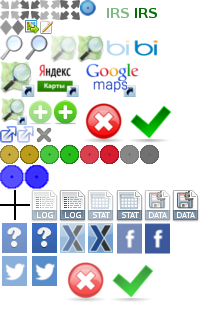
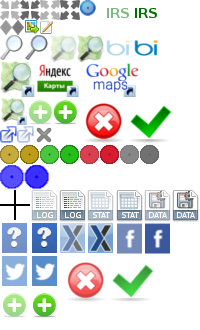
#6 functionality was implemented

diff --git a/ngcrowd/static/js/uik/uik.editor.js b/ngcrowd/static/js/uik/uik.editor.js
@@ -96,6 +96,10 @@
             $('#regeocode').off('click').on('click', function () {
                 context.regeocode();
             });
+
+            $('#newPointCreator').off('click').on('click', function () {
+                context.createNewPoint();
+            });
         },
 
         toggleEditor: function () {
@@ -288,8 +292,10 @@
                 $('#field-' + prop.id).val(prop.val);
             });
 
-            $('#lat').val(uik.uik.geom.lat);
-            $('#lng').val(uik.uik.geom.lng);
+            if (uik.uik.geom) {
+                $('#lat').val(uik.uik.geom.lat);
+                $('#lng').val(uik.uik.geom.lng);
+            }
 
             if (uik.uik.approved) {
                 $('#is_applied').val(1);
@@ -348,6 +354,11 @@
 
         finishAjaxEdition: function () {
             var context = this;
+            if (!UIK.viewmodel.uikSelected.uik.id) {
+                context.finishEditing();
+                return false;
+            }
+
             $.ajax({
                 type: 'GET',
                 url: document['url_root'] + 'object/unblock/' + UIK.viewmodel.uikSelected.uik.id
@@ -371,6 +382,25 @@
             UIK.view.$document.trigger('/uik/versions/clearUI');
             UIK.view.$document.trigger('/uik/map/updateAllLayers');
 
+        },
+
+        createNewPoint: function () {
+            var center = UIK.viewmodel.map.getCenter();
+
+            UIK.viewmodel.uikSelected = ({
+                uik: {
+                    approved: false,
+                    blocked: false,
+                    geom: {
+                        lat: center.lat,
+                        lng: center.lng
+                    }
+                },
+                props: [],
+                versions: []
+            });
+
+            this.startEdit();
         }
     });
 })(jQuery, UIK);

diff --git a/ngcrowd/static/css/main.css b/ngcrowd/static/css/main.css
@@ -216,10 +216,20 @@ body div.panel {
 
 body div.stat-panel {
     left: 309px;
-    top: 172px;
+    top: 221px;
 }
 
 body.searcher-collapsed div.stat-panel {
+    top: 259px;
+    left: 3px;
+}
+
+body div.edit-panel {
+    left: 309px;
+    top: 172px;
+}
+
+body.searcher-collapsed div.edit-panel {
     top: 210px;
     left: 3px;
 }
@@ -266,11 +276,11 @@ div.panel div.export:hover a {
 
 body div.help-panel {
     left: 309px;
-    top: 302px;
+    top: 350px;
 }
 
 body.searcher-collapsed div.help-panel {
-    top: 338px;
+    top: 388px;
     left: 3px;
 }
 
@@ -305,6 +315,15 @@ div.panel div.twitter a {
 div.panel div.twitter:hover a {
     background: url('../img/sm-icons.png') -31px -256px;
 }
+
+div.panel div.point a {
+    background: url('../img/sm-icons.png') 0 -289px;
+}
+
+div.panel div.point:hover a {
+    background: url('../img/sm-icons.png') -30px -289px;
+}
+
 
 #searchContainer .title,
 #editorContainer .title {

diff --git a/ngcrowd/uik.py b/ngcrowd/uik.py
@@ -180,34 +180,44 @@ def update_entity(context, request):
         session = DBSession()
         from helpers import str_to_boolean
 
-        entity = session.query(Entity).filter(Entity.id == entity_from_client['id'])\
-            .options(joinedload(Entity.values))
+        if ('id' in entity_from_client) and entity_from_client['id']:
+            entity = session.query(Entity).filter(Entity.id == entity_from_client['id'])\
+                .options(joinedload(Entity.values))
+            entity.update({
+                  Entity.approved: str_to_boolean(entity_from_client['is_applied']),
+                  Entity.blocked: False,
+                  Entity.user_block_id: None
+            }, synchronize_session=False)
+            entity = entity.one()
+        else:
+            entity = Entity(
+                approved=str_to_boolean(entity_from_client['is_applied']),
+                blocked=False,
+                user_block_id=None
+            )
+            session.add(entity)
+            session.flush()
+            session.refresh(entity)
 
-        current_values = entity.one().values
-
-        entity.update({
-              Entity.approved: str_to_boolean(entity_from_client['is_applied']),
-              Entity.blocked: False,
-              Entity.user_block_id: None
-        }, synchronize_session=False)
 
         sql = 'UPDATE entities SET point=ST_GeomFromText(:wkt, 4326) WHERE id = :entity_id'
         session.execute(sql, {
             'wkt': 'POINT(%s %s)' % (entity_from_client['geom']['lng'], entity_from_client['geom']['lat']),
-            'entity_id': entity_from_client['id']
+            'entity_id': entity.id
         })
 
         entity_properties = session.query(EntityProperty)
+        current_values = entity.values
 
         for entity_property in entity_properties:
             if next((x for x in current_values if x.entity_property_id == entity_property.id), None) is None:
                 session.add(EntityPropertyValue(
                     entity_property_id=entity_property.id,
-                    entity_id=entity_from_client['id']
+                    entity_id=entity.id
                 ))
 
             entity_value = session.query(EntityPropertyValue)\
-                .filter(and_(EntityPropertyValue.entity_id == entity_from_client['id'],
+                .filter(and_(EntityPropertyValue.entity_id == entity.id,
                              EntityPropertyValue.entity_property_id == entity_property.id))
 
             if entity_property.type == 'text' or entity_property.type == 'reference_book':
@@ -220,7 +230,7 @@ def update_entity(context, request):
                     }, synchronize_session=False)
 
         log = EntityVersions()
-        log.entity_id = entity_from_client['id']
+        log.entity_id = entity.id
         log.user_id = request.session['u_id']
         from datetime import datetime
 
@@ -250,6 +260,8 @@ def obj_block(context, request):
 @authorized()
 def obj_unblock(context, request):
     obj_id = request.matchdict.get('id', None)
+    if obj_id is None:
+        return Response()
 
     with transaction.manager:
         session = DBSession()
